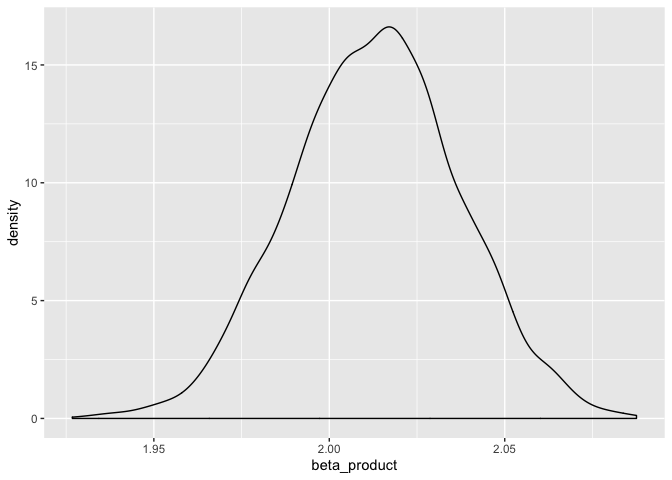
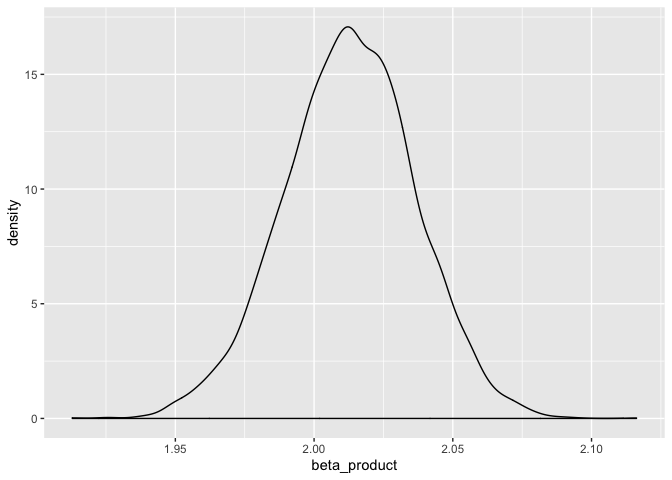
adding comments/inline R code for p2

diff --git a/p8105_hw6_jf3285.md b/p8105_hw6_jf3285.md
@@ -8,14 +8,14 @@ Jiarui Fu
 After observing that the ‘parity’, ‘pnumlbw’, and ‘pnumsga’ columns are
 all zero, these three columns are removed from the dataset. The
 categorical variables are converted from numeric to factor, recoded and
-ordered based most frequent to infrequent. First, a linear model with
-all the variables inside is used to see if there’s a good fit, and based
-on the summary result, non-significant predictors (large p-value) are
+ordered from most frequent to infrequent. First, a linear model with all
+the variables inside is used to see if there’s a good fit, and based on
+the summary result, non-significant predictors (large p-value) are
 removed from the model. Then, several attempts are made to find out the
 interactions between these predictors: baby’s head circumference is
-strongly associated with mother’s race and baby’s length at birth also
-depends on the average number of cigarettes mothers smoked per day
-during pregnancy.
+strongly associated with mother’s race and baby’s length also depends on
+the average number of cigarettes mothers smoked per day during
+pregnancy.
 
 ``` r
 # load and clean the data
@@ -226,6 +226,7 @@ models.
 ## Problem 2
 
 ``` r
+# download the data
 weather_df = 
   rnoaa::meteo_pull_monitors(
     c("USW00094728"),
@@ -254,6 +255,9 @@ weather_df =
     ## file min/max dates: 1869-01-01 / 2019-11-30
 
 ``` r
+# use 5000 bootstrap samples 
+# fit a linear model with tmax and tmin
+# rsq is in glance and betas are in tidy
 bootstrap_regression = 
 weather_df %>% 
   modelr::bootstrap(n = 5000) %>% 
@@ -269,7 +273,9 @@ bootstrap_beta =
   select(-glanced) %>% 
   unnest(tidied) %>% 
   group_by(.id) %>% 
+  # log(beta0*beta1)
   summarize(beta_product = log(estimate[[1]]*estimate[[2]]))
+# plot the distribution
 bootstrap_beta %>% 
   ggplot(aes(x = beta_product)) + geom_density()
 ```
@@ -277,24 +283,26 @@ bootstrap_beta %>%
 ![](p8105_hw6_jf3285_files/figure-gfm/unnamed-chunk-2-1.png)<!-- -->
 
 ``` r
+# identify the 2.5% and 97.5% quantiles to provide a 95% CI
 quantile(bootstrap_beta$beta_product, 0.025)
 ```
 
-    ##    2.5% 
-    ## 1.96652
+    ##     2.5% 
+    ## 1.965138
 
 ``` r
 quantile(bootstrap_beta$beta_product, 0.975)
 ```
 
-    ##    97.5% 
-    ## 2.060518
+    ##  97.5% 
+    ## 2.0576
 
 ``` r
 bootstrap_rsq = 
   bootstrap_regression %>% 
   select(-tidied) %>% 
   unnest(glanced)
+# plot the distribution
 bootstrap_rsq %>% 
   ggplot(aes(x = r.squared)) + geom_density() 
 ```
@@ -302,15 +310,21 @@ bootstrap_rsq %>%
 ![](p8105_hw6_jf3285_files/figure-gfm/unnamed-chunk-2-2.png)<!-- -->
 
 ``` r
+# identify the 2.5% and 97.5% quantiles to provide a 95% CI
 quantile(bootstrap_rsq$`r.squared`, 0.025)
 ```
 
     ##      2.5% 
-    ## 0.8945934
+    ## 0.8937302
 
 ``` r
 quantile(bootstrap_rsq$`r.squared`, 0.975)
 ```
 
     ##     97.5% 
-    ## 0.9269407
+    ## 0.9270734
+
+The distribution of log(beta0\_hat\*beta1\_hat) is slightly left-skewed
+with the 95% confidence interval of 1.9651381 and 2.0576001. The
+distribution of r\_hat\_squared follows a normal distribution with the
+95% confidence interval of 0.8937302 and 0.9270734.
